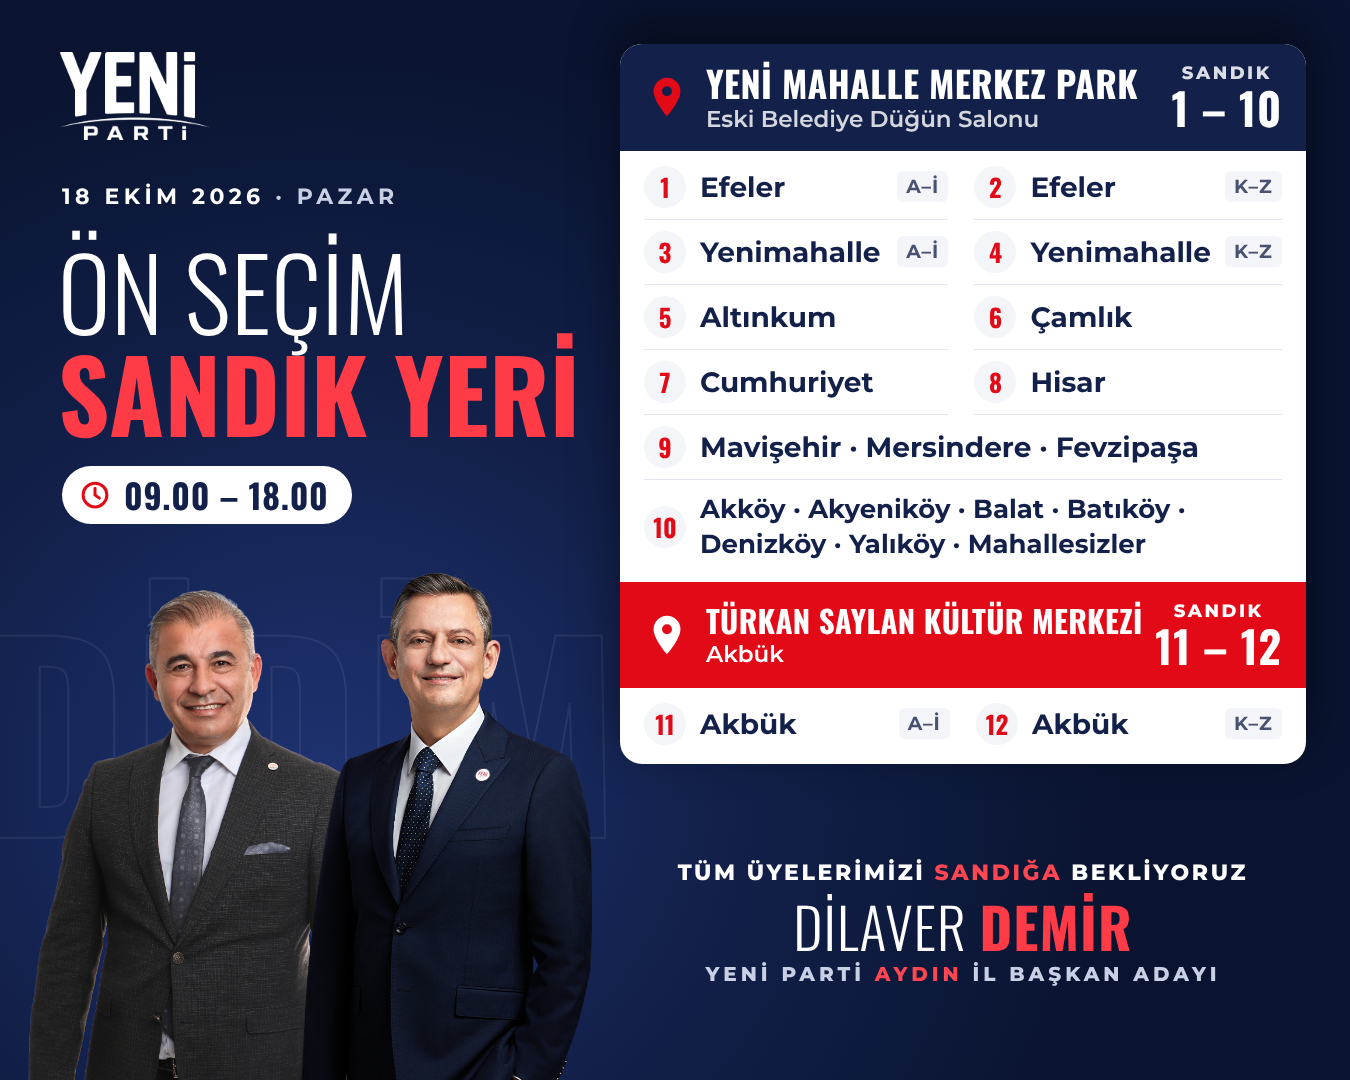
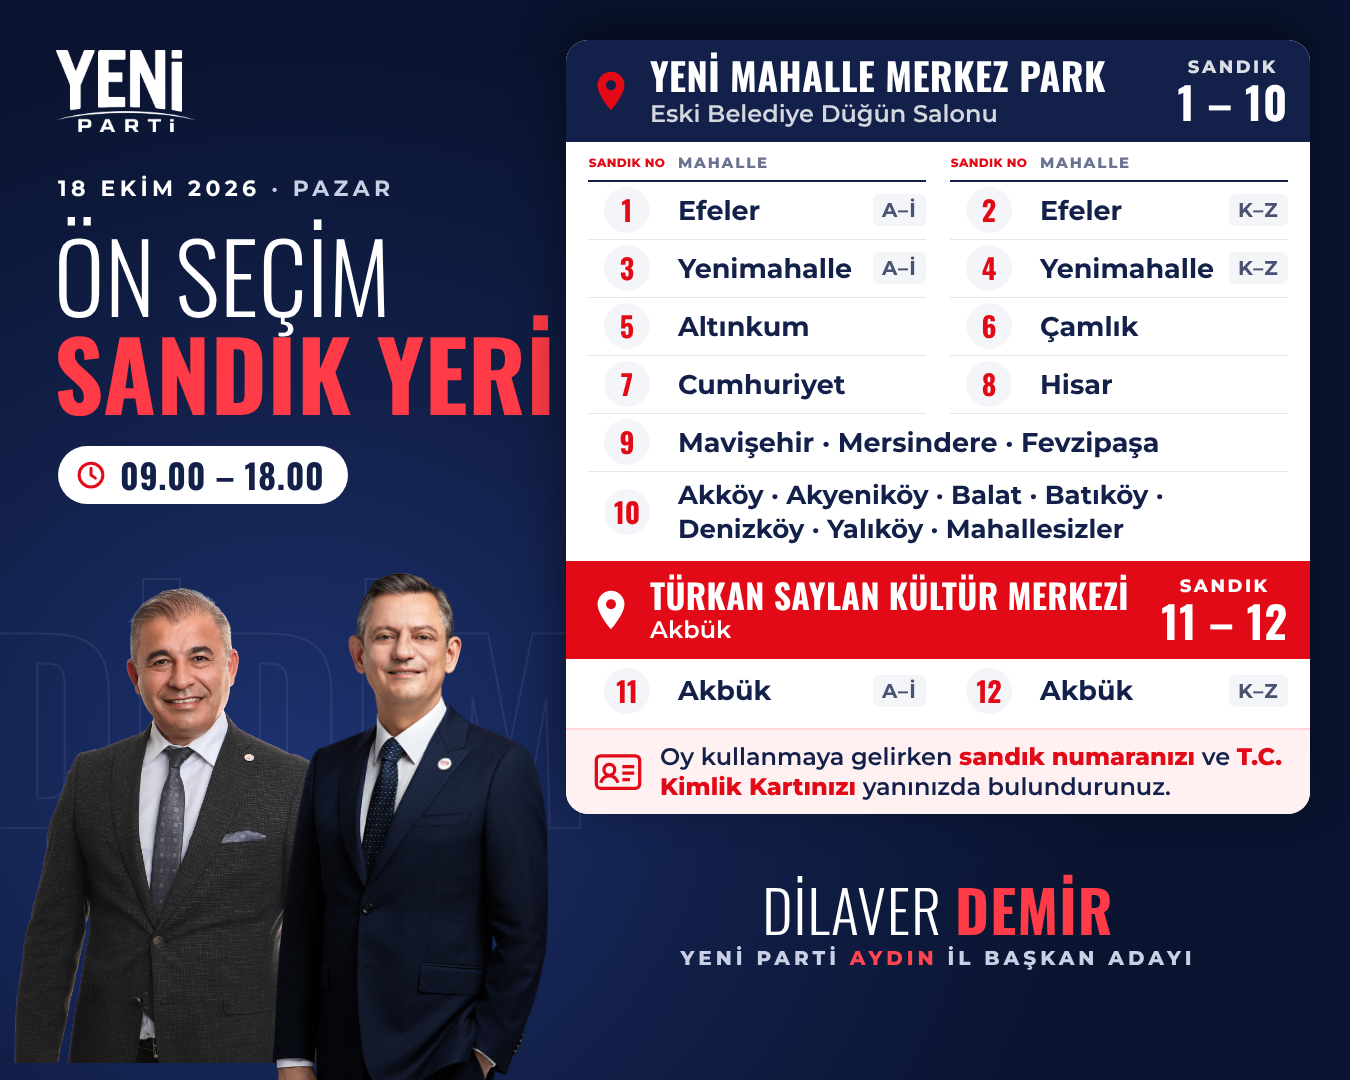
Sandık yerleri: SANDIK NO başlığı, kimlik kartı notu, daha büyük yazılar
Claude-Session: https://claude.ai/code/session_01SatttGbgBLoCnk9KGLypWv

Changed region(s): [[0.0, 0.0306, 0.9956, 1.0], [0.4978, 0.7944, 0.9333, 0.9167]]

diff --git a/tasarim/kisisel/sandik/sandik-yatay.html b/tasarim/kisisel/sandik/sandik-yatay.html
@@ -11,77 +11,81 @@ body{position:relative;color:#fff;background:radial-gradient(ellipse 70% 55% at 
 /* arka planda ince çizgili DİDİM */
 .zemin-yazi{position:absolute;right:-30px;top:96px;font:300px/1 O7;letter-spacing:.02em;color:transparent;-webkit-text-stroke:2px rgba(255,255,255,.07);white-space:nowrap}
 
-.logo{position:absolute;left:56px;top:50px;width:150px}
-.etiket{position:absolute;left:56px;top:178px;font:22px/1 M7;letter-spacing:.2em;color:#C9D0E6}
+.logo{position:absolute;left:56px;top:42px;width:132px}
+.etiket{position:absolute;left:56px;top:158px;font:22px/1 M7;letter-spacing:.2em;color:#C9D0E6}
 .etiket b{color:#fff}
-.b1{position:absolute;left:52px;top:236px;font:96px/1 OL;letter-spacing:.005em}
-.b2{position:absolute;left:52px;top:336px;font:96px/1 O7;color:#FF3B47;letter-spacing:.005em}
-.saat{position:absolute;left:56px;top:440px;display:flex;align-items:center;gap:14px;height:58px;padding:0 24px 0 18px;border-radius:30px;background:#fff;color:var(--lacivert)}
+.b1{position:absolute;left:52px;top:200px;font:80px/1 OL;letter-spacing:.005em}
+.b2{position:absolute;left:52px;top:282px;font:80px/1 O7;color:#FF3B47;letter-spacing:.005em}
+.saat{position:absolute;left:56px;top:378px;display:flex;align-items:center;gap:14px;height:58px;padding:0 24px 0 18px;border-radius:30px;background:#fff;color:var(--lacivert)}
 .saat svg{width:30px;height:30px}
 .saat b{font:34px/1 O7;letter-spacing:.02em}
 
 .kisi{position:absolute}
-.dilaver{left:548px;top:122px;width:338px}
-.ozel{left:812px;top:108px;width:288px}
+.dilaver{left:560px;top:90px;width:308px}
+.ozel{left:812px;top:80px;width:268px}
 
 /* sandık paneli */
-.panel{position:absolute;left:36px;right:36px;top:514px;background:#fff;border-radius:22px;color:var(--lacivert);
+.panel{position:absolute;left:36px;right:36px;top:448px;background:#fff;border-radius:22px;color:var(--lacivert);
   box-shadow:0 -18px 50px rgba(0,0,0,.45);overflow:hidden}
-.yer{display:flex;align-items:center;gap:18px;padding:16px 26px;background:var(--lacivert);color:#fff}
+.yer{display:flex;align-items:center;gap:18px;padding:12px 26px;background:var(--lacivert);color:#fff}
 .yer.akbuk{background:var(--kirmizi)}
 .yer.akbuk .ad span,.yer.akbuk .no{color:#fff}
 .yer .pin{flex:none;width:46px;height:46px}
 .yer .ad{flex:1;min-width:0}
-.yer .ad b{display:block;font:39px/1.05 O7;letter-spacing:.01em;white-space:nowrap}
-.yer .ad span{display:block;margin-top:6px;font:23px/1 M6;color:rgba(255,255,255,.82)}
+.yer .ad b{display:block;font:41px/1.05 O7;letter-spacing:.01em;white-space:nowrap}
+.yer .ad span{display:block;margin-top:6px;font:24px/1 M6;color:rgba(255,255,255,.82)}
 .yer .no{flex:none;text-align:center;font:18px/1 M8;letter-spacing:.14em;color:rgba(255,255,255,.85)}
 .yer .no b{display:block;margin-top:4px;font:44px/1 O7;letter-spacing:.02em;color:#fff}
 
 .izgara{display:grid;grid-template-columns:1fr 1fr;padding:4px 26px 8px;column-gap:34px}
-.satir{display:flex;align-items:center;gap:14px;height:56px;border-bottom:1.5px solid var(--cizgi)}
-.satir i{flex:none;width:42px;height:42px;border-radius:50%;background:var(--acik);color:var(--kirmizi);display:flex;align-items:center;justify-content:center;font:25px/1 O7;font-style:normal}
-.satir .m{font:29px/1.15 M7;white-space:nowrap}
-.satir small{margin-left:auto;font:21px/1 M7;letter-spacing:.06em;color:#4A5272;background:var(--acik);padding:6px 9px;border-radius:6px}
+.satir{display:flex;align-items:center;gap:12px;height:57px;border-bottom:1.5px solid var(--cizgi)}
+.satir i{flex:none;width:46px;height:46px;margin:0 22px;border-radius:50%;background:var(--acik);color:var(--kirmizi);display:flex;align-items:center;justify-content:center;font:28px/1 O7;font-style:normal}
+.satir .m{font:32px/1.15 M7;white-space:nowrap}
+.satir small{margin-left:auto;font:22px/1 M7;letter-spacing:.06em;color:#4A5272;background:var(--acik);padding:6px 9px;border-radius:6px}
 .genis{grid-column:1/-1}
-.satir.cok{height:auto;min-height:56px;padding:9px 0}
-.satir.cok .m{white-space:normal;font-size:26px;line-height:1.35}
+.satir.cok{height:auto;min-height:57px;padding:6px 0}
+.satir.cok .m{white-space:normal;font-size:28px;line-height:1.32}
 .izgara .son{border-bottom:0}
+.etk{display:flex;align-items:center;height:34px;white-space:nowrap;border-bottom:2px solid var(--lacivert);font:15px/1 M8;letter-spacing:.12em;color:var(--gri)}
+.etk span:first-child{width:90px;margin-right:12px;font-size:13px;letter-spacing:.06em;text-align:center;color:var(--kirmizi)}
+.not{display:flex;align-items:center;gap:16px;padding:12px 26px;background:#FFF1F2;border-top:2px solid #FFD5D8}
+.not svg{flex:none;width:52px;height:52px}
+.not p{margin:0;font:25px/1.25 M6;color:var(--lacivert)}
+.not b{font-family:M8;font-weight:normal;color:var(--kirmizi)}
 
-.alt{position:absolute;left:0;right:0;bottom:26px;text-align:center}
+.alt{position:absolute;left:0;right:0;bottom:30px;text-align:center}
 .alt .davet{font:24px/1 M8;letter-spacing:.2em;color:#fff}
 .alt .davet em{font-style:normal;color:#FF4651}
-.imza{margin-top:14px;display:flex;justify-content:center;align-items:baseline;gap:14px}
+.imza{margin-top:0;display:flex;justify-content:center;align-items:baseline;gap:14px}
 .imza .ad{font:52px/1 OL;letter-spacing:.02em}
 .imza .ad b{font-family:O7;font-weight:normal;color:#FF3B47}
 .gorev{margin-top:10px;font:20px/1 M8;letter-spacing:.2em;color:#C9D0E6}
 .gorev em{font-style:normal;color:#FF4651}
 
 /* yatay düzen */
-body{background:radial-gradient(ellipse 60% 70% at 24% 72%,#1E3270 0%,#12204A 50%,var(--gece) 100%)}
-.zemin-yazi{right:auto;left:-20px;top:600px;font-size:250px}
-.logo{left:60px;top:52px;width:150px}
-.etiket{left:62px;top:186px}
-.b1{left:58px;top:240px;font-size:100px}
-.b2{left:58px;top:342px;font-size:100px}
-.saat{left:62px;top:466px}
-.dilaver{left:28px;top:590px;width:350px}
-.ozel{left:300px;top:572px;width:292px}
-.panel{left:620px;right:44px;top:44px}
-.izgara{padding:4px 24px 8px;column-gap:26px}
-.yer{padding:16px 24px;gap:16px}
-.yer .ad b{font-size:36px}
-.satir .m{font-size:28px}
-.satir small{font-size:20px}
+body{background:radial-gradient(ellipse 60% 70% at 22% 72%,#1E3270 0%,#12204A 50%,var(--gece) 100%)}
+.zemin-yazi{right:auto;left:-20px;top:600px;font-size:240px}
+.logo{left:56px;top:50px;width:140px}
+.etiket{left:58px;top:178px}
+.b1{left:54px;top:226px;font-size:96px}
+.b2{left:54px;top:324px;font-size:96px}
+.saat{left:58px;top:446px}
+.dilaver{left:14px;top:588px;width:336px}
+.ozel{left:272px;top:572px;width:276px}
+.panel{left:566px;right:40px;top:40px}
+.izgara{padding:4px 22px 8px;column-gap:24px}
+.yer{padding:16px 22px;gap:16px}
+.yer .ad b{font-size:38px}
+.yer.akbuk .ad b{font-size:34px}
+.satir .m{font-size:27px}
+.izgara{grid-template-columns:minmax(0,1fr) minmax(0,1fr)}
+.satir i{margin:0 16px}
+.etk span:first-child{width:78px;margin-right:12px;font-size:12px;letter-spacing:.03em}
+.satir small{white-space:nowrap;font-size:20px}
 .satir.cok .m{font-size:26px}
-.alt{left:620px;right:44px;bottom:96px}
-.satir{height:64px}
-.satir .m{font-size:28px}
-.satir small{white-space:nowrap;font-size:19px}
-.satir.cok{min-height:64px;padding:12px 0}
-.yer{padding:20px 24px}
-.yer.akbuk .ad b{font-size:31px}
-.alt .davet{font-size:22px;letter-spacing:.12em;white-space:nowrap}
-.imza .ad{font-size:56px}
+.not p{font-size:24px}
+.alt{left:566px;right:40px;bottom:auto;top:880px}
+.imza .ad{font-size:58px}
 </style>
 <body>
 <div class="zemin-yazi">DİDİM</div>
@@ -101,6 +105,7 @@ body{background:radial-gradient(ellipse 60% 70% at 24% 72%,#1E3270 0%,#12204A 50
     <div class="no">SANDIK<b>1 – 10</b></div>
   </div>
   <div class="izgara">
+    <div class="etk"><span>SANDIK NO</span><span>MAHALLE</span></div><div class="etk"><span>SANDIK NO</span><span>MAHALLE</span></div>
     <div class="satir"><i>1</i><span class="m">Efeler</span><small>A–İ</small></div>
     <div class="satir"><i>2</i><span class="m">Efeler</span><small>K–Z</small></div>
     <div class="satir"><i>3</i><span class="m">Yenimahalle</span><small>A–İ</small></div>
@@ -121,10 +126,13 @@ body{background:radial-gradient(ellipse 60% 70% at 24% 72%,#1E3270 0%,#12204A 50
     <div class="satir son"><i>11</i><span class="m">Akbük</span><small>A–İ</small></div>
     <div class="satir son"><i>12</i><span class="m">Akbük</span><small>K–Z</small></div>
   </div>
+  <div class="not">
+    <svg viewBox="0 0 48 48" fill="none" stroke="#E30A17" stroke-width="3" stroke-linejoin="round"><rect x="4" y="9" width="40" height="30" rx="4"/><circle cx="16" cy="22" r="5"/><path d="M8 34c1.5-4.5 4.5-6.5 8-6.5s6.5 2 8 6.5M28 19h11M28 25h11M28 31h7"/></svg>
+    <p>Oy kullanmaya gelirken <b>sandık numaranızı</b> ve <b>T.C. Kimlik Kartınızı</b> yanınızda bulundurunuz.</p>
+  </div>
 </div>
 
 <div class="alt">
-  <div class="davet">TÜM ÜYELERİMİZİ <em>SANDIĞA</em> BEKLİYORUZ</div>
   <div class="imza"><span class="ad">DİLAVER <b>DEMİR</b></span></div>
   <div class="gorev">YENİ PARTİ <em>AYDIN</em> İL BAŞKAN ADAYI</div>
 </div>

diff --git a/tasarim/kisisel/sandik/sandik.html b/tasarim/kisisel/sandik/sandik.html
@@ -11,46 +11,52 @@ body{position:relative;color:#fff;background:radial-gradient(ellipse 70% 55% at 
 /* arka planda ince çizgili DİDİM */
 .zemin-yazi{position:absolute;right:-30px;top:96px;font:300px/1 O7;letter-spacing:.02em;color:transparent;-webkit-text-stroke:2px rgba(255,255,255,.07);white-space:nowrap}
 
-.logo{position:absolute;left:56px;top:50px;width:150px}
-.etiket{position:absolute;left:56px;top:178px;font:22px/1 M7;letter-spacing:.2em;color:#C9D0E6}
+.logo{position:absolute;left:56px;top:42px;width:132px}
+.etiket{position:absolute;left:56px;top:158px;font:22px/1 M7;letter-spacing:.2em;color:#C9D0E6}
 .etiket b{color:#fff}
-.b1{position:absolute;left:52px;top:236px;font:96px/1 OL;letter-spacing:.005em}
-.b2{position:absolute;left:52px;top:336px;font:96px/1 O7;color:#FF3B47;letter-spacing:.005em}
-.saat{position:absolute;left:56px;top:440px;display:flex;align-items:center;gap:14px;height:58px;padding:0 24px 0 18px;border-radius:30px;background:#fff;color:var(--lacivert)}
+.b1{position:absolute;left:52px;top:200px;font:80px/1 OL;letter-spacing:.005em}
+.b2{position:absolute;left:52px;top:282px;font:80px/1 O7;color:#FF3B47;letter-spacing:.005em}
+.saat{position:absolute;left:56px;top:378px;display:flex;align-items:center;gap:14px;height:58px;padding:0 24px 0 18px;border-radius:30px;background:#fff;color:var(--lacivert)}
 .saat svg{width:30px;height:30px}
 .saat b{font:34px/1 O7;letter-spacing:.02em}
 
 .kisi{position:absolute}
-.dilaver{left:548px;top:122px;width:338px}
-.ozel{left:812px;top:108px;width:288px}
+.dilaver{left:560px;top:90px;width:308px}
+.ozel{left:812px;top:80px;width:268px}
 
 /* sandık paneli */
-.panel{position:absolute;left:36px;right:36px;top:514px;background:#fff;border-radius:22px;color:var(--lacivert);
+.panel{position:absolute;left:36px;right:36px;top:448px;background:#fff;border-radius:22px;color:var(--lacivert);
   box-shadow:0 -18px 50px rgba(0,0,0,.45);overflow:hidden}
-.yer{display:flex;align-items:center;gap:18px;padding:16px 26px;background:var(--lacivert);color:#fff}
+.yer{display:flex;align-items:center;gap:18px;padding:12px 26px;background:var(--lacivert);color:#fff}
 .yer.akbuk{background:var(--kirmizi)}
 .yer.akbuk .ad span,.yer.akbuk .no{color:#fff}
 .yer .pin{flex:none;width:46px;height:46px}
 .yer .ad{flex:1;min-width:0}
-.yer .ad b{display:block;font:39px/1.05 O7;letter-spacing:.01em;white-space:nowrap}
-.yer .ad span{display:block;margin-top:6px;font:23px/1 M6;color:rgba(255,255,255,.82)}
+.yer .ad b{display:block;font:41px/1.05 O7;letter-spacing:.01em;white-space:nowrap}
+.yer .ad span{display:block;margin-top:6px;font:24px/1 M6;color:rgba(255,255,255,.82)}
 .yer .no{flex:none;text-align:center;font:18px/1 M8;letter-spacing:.14em;color:rgba(255,255,255,.85)}
 .yer .no b{display:block;margin-top:4px;font:44px/1 O7;letter-spacing:.02em;color:#fff}
 
 .izgara{display:grid;grid-template-columns:1fr 1fr;padding:4px 26px 8px;column-gap:34px}
-.satir{display:flex;align-items:center;gap:14px;height:56px;border-bottom:1.5px solid var(--cizgi)}
-.satir i{flex:none;width:42px;height:42px;border-radius:50%;background:var(--acik);color:var(--kirmizi);display:flex;align-items:center;justify-content:center;font:25px/1 O7;font-style:normal}
-.satir .m{font:29px/1.15 M7;white-space:nowrap}
-.satir small{margin-left:auto;font:21px/1 M7;letter-spacing:.06em;color:#4A5272;background:var(--acik);padding:6px 9px;border-radius:6px}
+.satir{display:flex;align-items:center;gap:12px;height:57px;border-bottom:1.5px solid var(--cizgi)}
+.satir i{flex:none;width:46px;height:46px;margin:0 22px;border-radius:50%;background:var(--acik);color:var(--kirmizi);display:flex;align-items:center;justify-content:center;font:28px/1 O7;font-style:normal}
+.satir .m{font:32px/1.15 M7;white-space:nowrap}
+.satir small{margin-left:auto;font:22px/1 M7;letter-spacing:.06em;color:#4A5272;background:var(--acik);padding:6px 9px;border-radius:6px}
 .genis{grid-column:1/-1}
-.satir.cok{height:auto;min-height:56px;padding:9px 0}
-.satir.cok .m{white-space:normal;font-size:26px;line-height:1.35}
+.satir.cok{height:auto;min-height:57px;padding:6px 0}
+.satir.cok .m{white-space:normal;font-size:28px;line-height:1.32}
 .izgara .son{border-bottom:0}
+.etk{display:flex;align-items:center;height:34px;white-space:nowrap;border-bottom:2px solid var(--lacivert);font:15px/1 M8;letter-spacing:.12em;color:var(--gri)}
+.etk span:first-child{width:90px;margin-right:12px;font-size:13px;letter-spacing:.06em;text-align:center;color:var(--kirmizi)}
+.not{display:flex;align-items:center;gap:16px;padding:12px 26px;background:#FFF1F2;border-top:2px solid #FFD5D8}
+.not svg{flex:none;width:52px;height:52px}
+.not p{margin:0;font:25px/1.25 M6;color:var(--lacivert)}
+.not b{font-family:M8;font-weight:normal;color:var(--kirmizi)}
 
-.alt{position:absolute;left:0;right:0;bottom:26px;text-align:center}
+.alt{position:absolute;left:0;right:0;bottom:30px;text-align:center}
 .alt .davet{font:24px/1 M8;letter-spacing:.2em;color:#fff}
 .alt .davet em{font-style:normal;color:#FF4651}
-.imza{margin-top:14px;display:flex;justify-content:center;align-items:baseline;gap:14px}
+.imza{margin-top:0;display:flex;justify-content:center;align-items:baseline;gap:14px}
 .imza .ad{font:52px/1 OL;letter-spacing:.02em}
 .imza .ad b{font-family:O7;font-weight:normal;color:#FF3B47}
 .gorev{margin-top:10px;font:20px/1 M8;letter-spacing:.2em;color:#C9D0E6}
@@ -74,6 +80,7 @@ body{position:relative;color:#fff;background:radial-gradient(ellipse 70% 55% at 
     <div class="no">SANDIK<b>1 – 10</b></div>
   </div>
   <div class="izgara">
+    <div class="etk"><span>SANDIK NO</span><span>MAHALLE</span></div><div class="etk"><span>SANDIK NO</span><span>MAHALLE</span></div>
     <div class="satir"><i>1</i><span class="m">Efeler</span><small>A–İ</small></div>
     <div class="satir"><i>2</i><span class="m">Efeler</span><small>K–Z</small></div>
     <div class="satir"><i>3</i><span class="m">Yenimahalle</span><small>A–İ</small></div>
@@ -94,10 +101,13 @@ body{position:relative;color:#fff;background:radial-gradient(ellipse 70% 55% at 
     <div class="satir son"><i>11</i><span class="m">Akbük</span><small>A–İ</small></div>
     <div class="satir son"><i>12</i><span class="m">Akbük</span><small>K–Z</small></div>
   </div>
+  <div class="not">
+    <svg viewBox="0 0 48 48" fill="none" stroke="#E30A17" stroke-width="3" stroke-linejoin="round"><rect x="4" y="9" width="40" height="30" rx="4"/><circle cx="16" cy="22" r="5"/><path d="M8 34c1.5-4.5 4.5-6.5 8-6.5s6.5 2 8 6.5M28 19h11M28 25h11M28 31h7"/></svg>
+    <p>Oy kullanmaya gelirken <b>sandık numaranızı</b> ve <b>T.C. Kimlik Kartınızı</b> yanınızda bulundurunuz.</p>
+  </div>
 </div>
 
 <div class="alt">
-  <div class="davet">TÜM ÜYELERİMİZİ <em>SANDIĞA</em> BEKLİYORUZ</div>
   <div class="imza"><span class="ad">DİLAVER <b>DEMİR</b></span></div>
   <div class="gorev">YENİ PARTİ <em>AYDIN</em> İL BAŞKAN ADAYI</div>
 </div>
